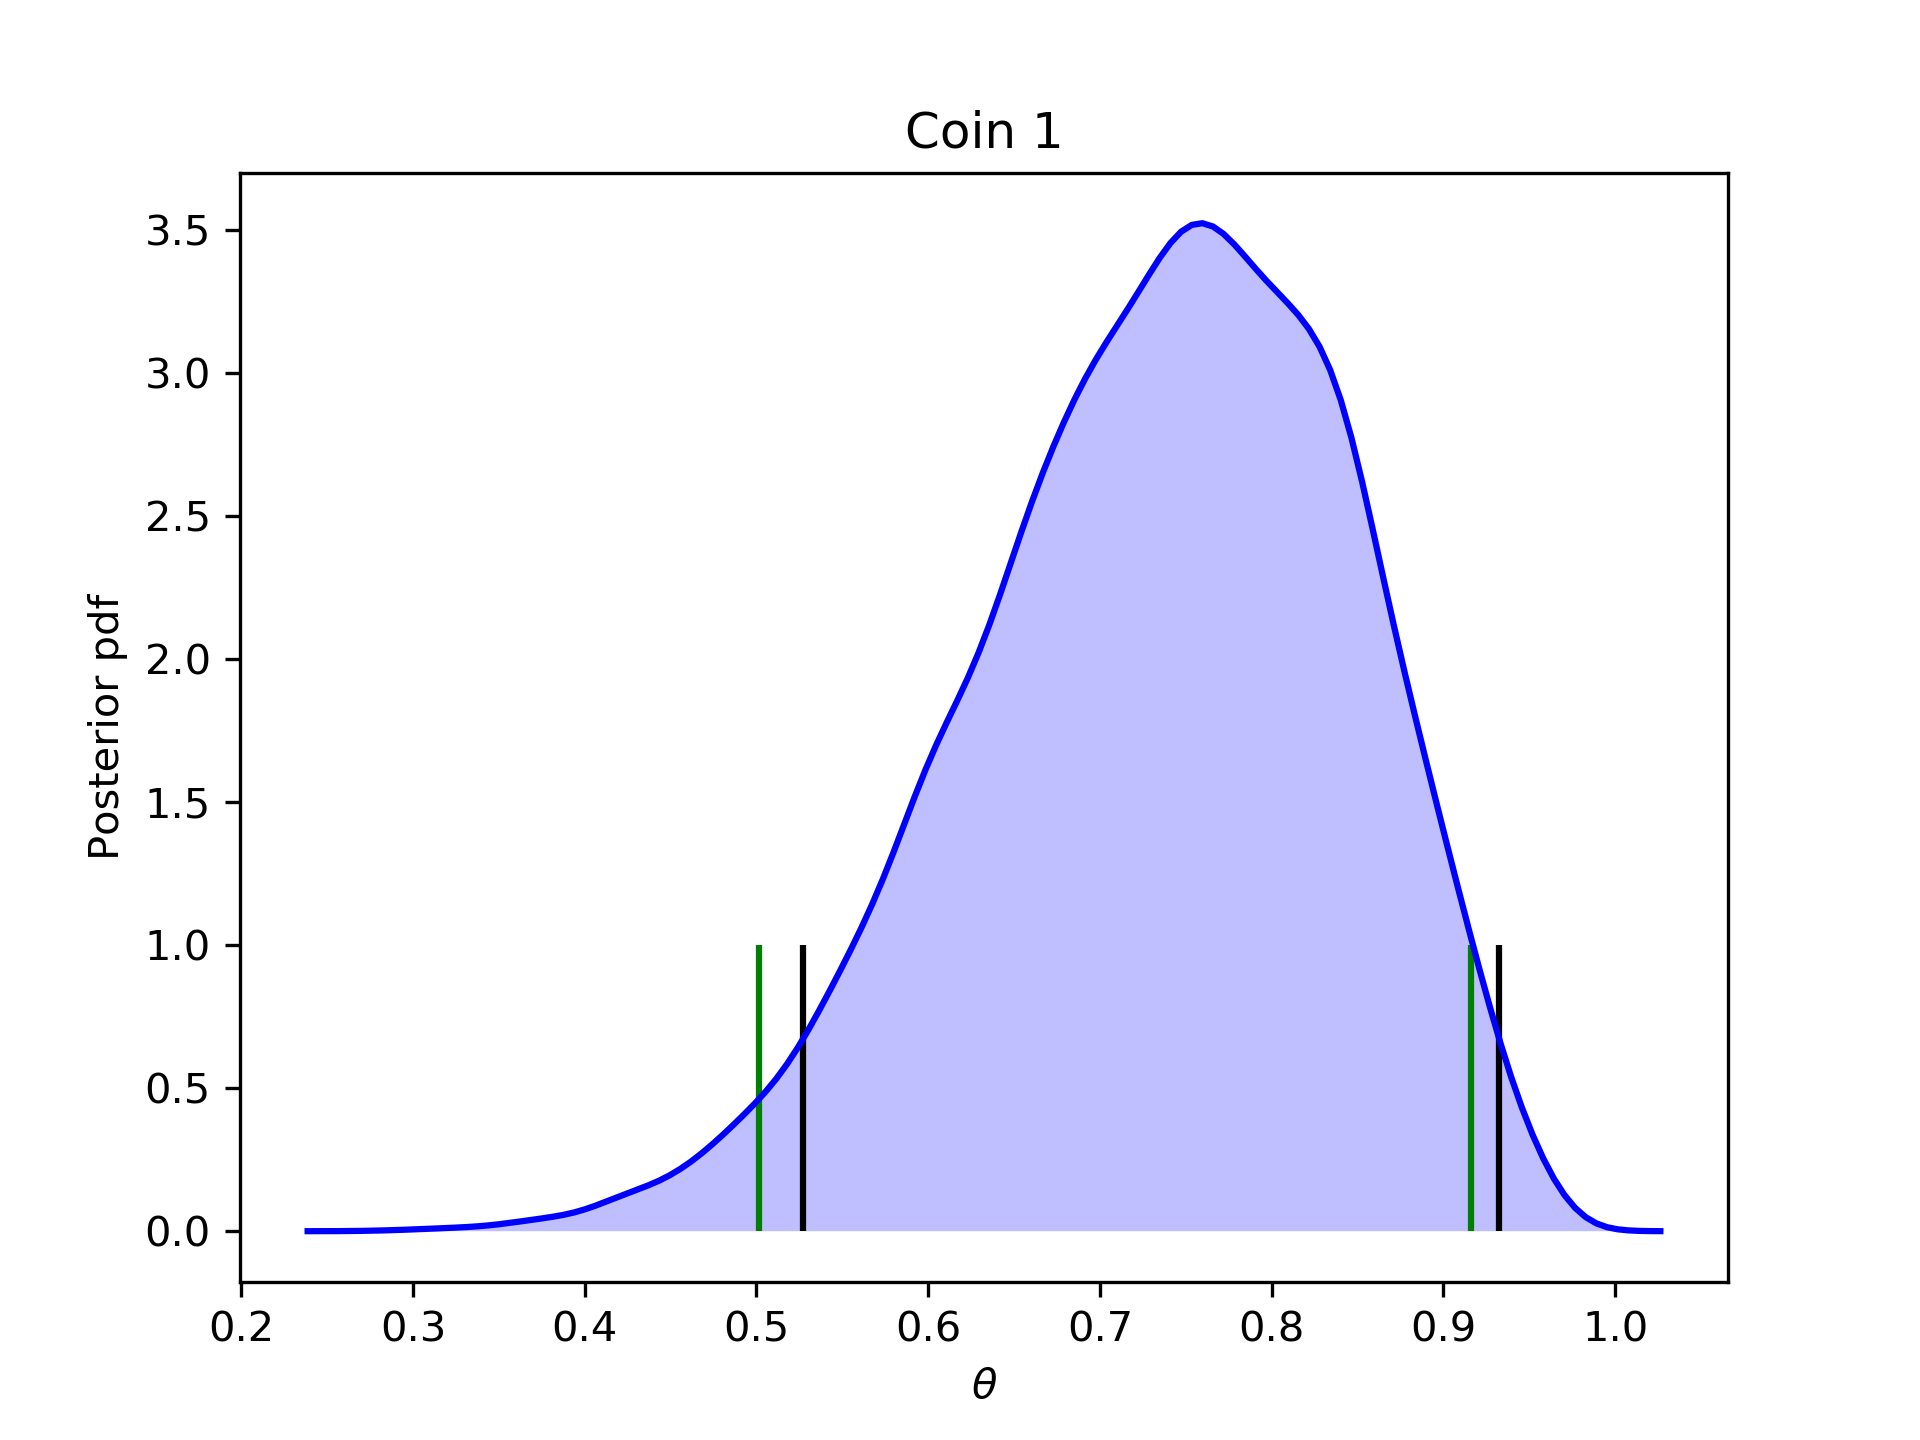
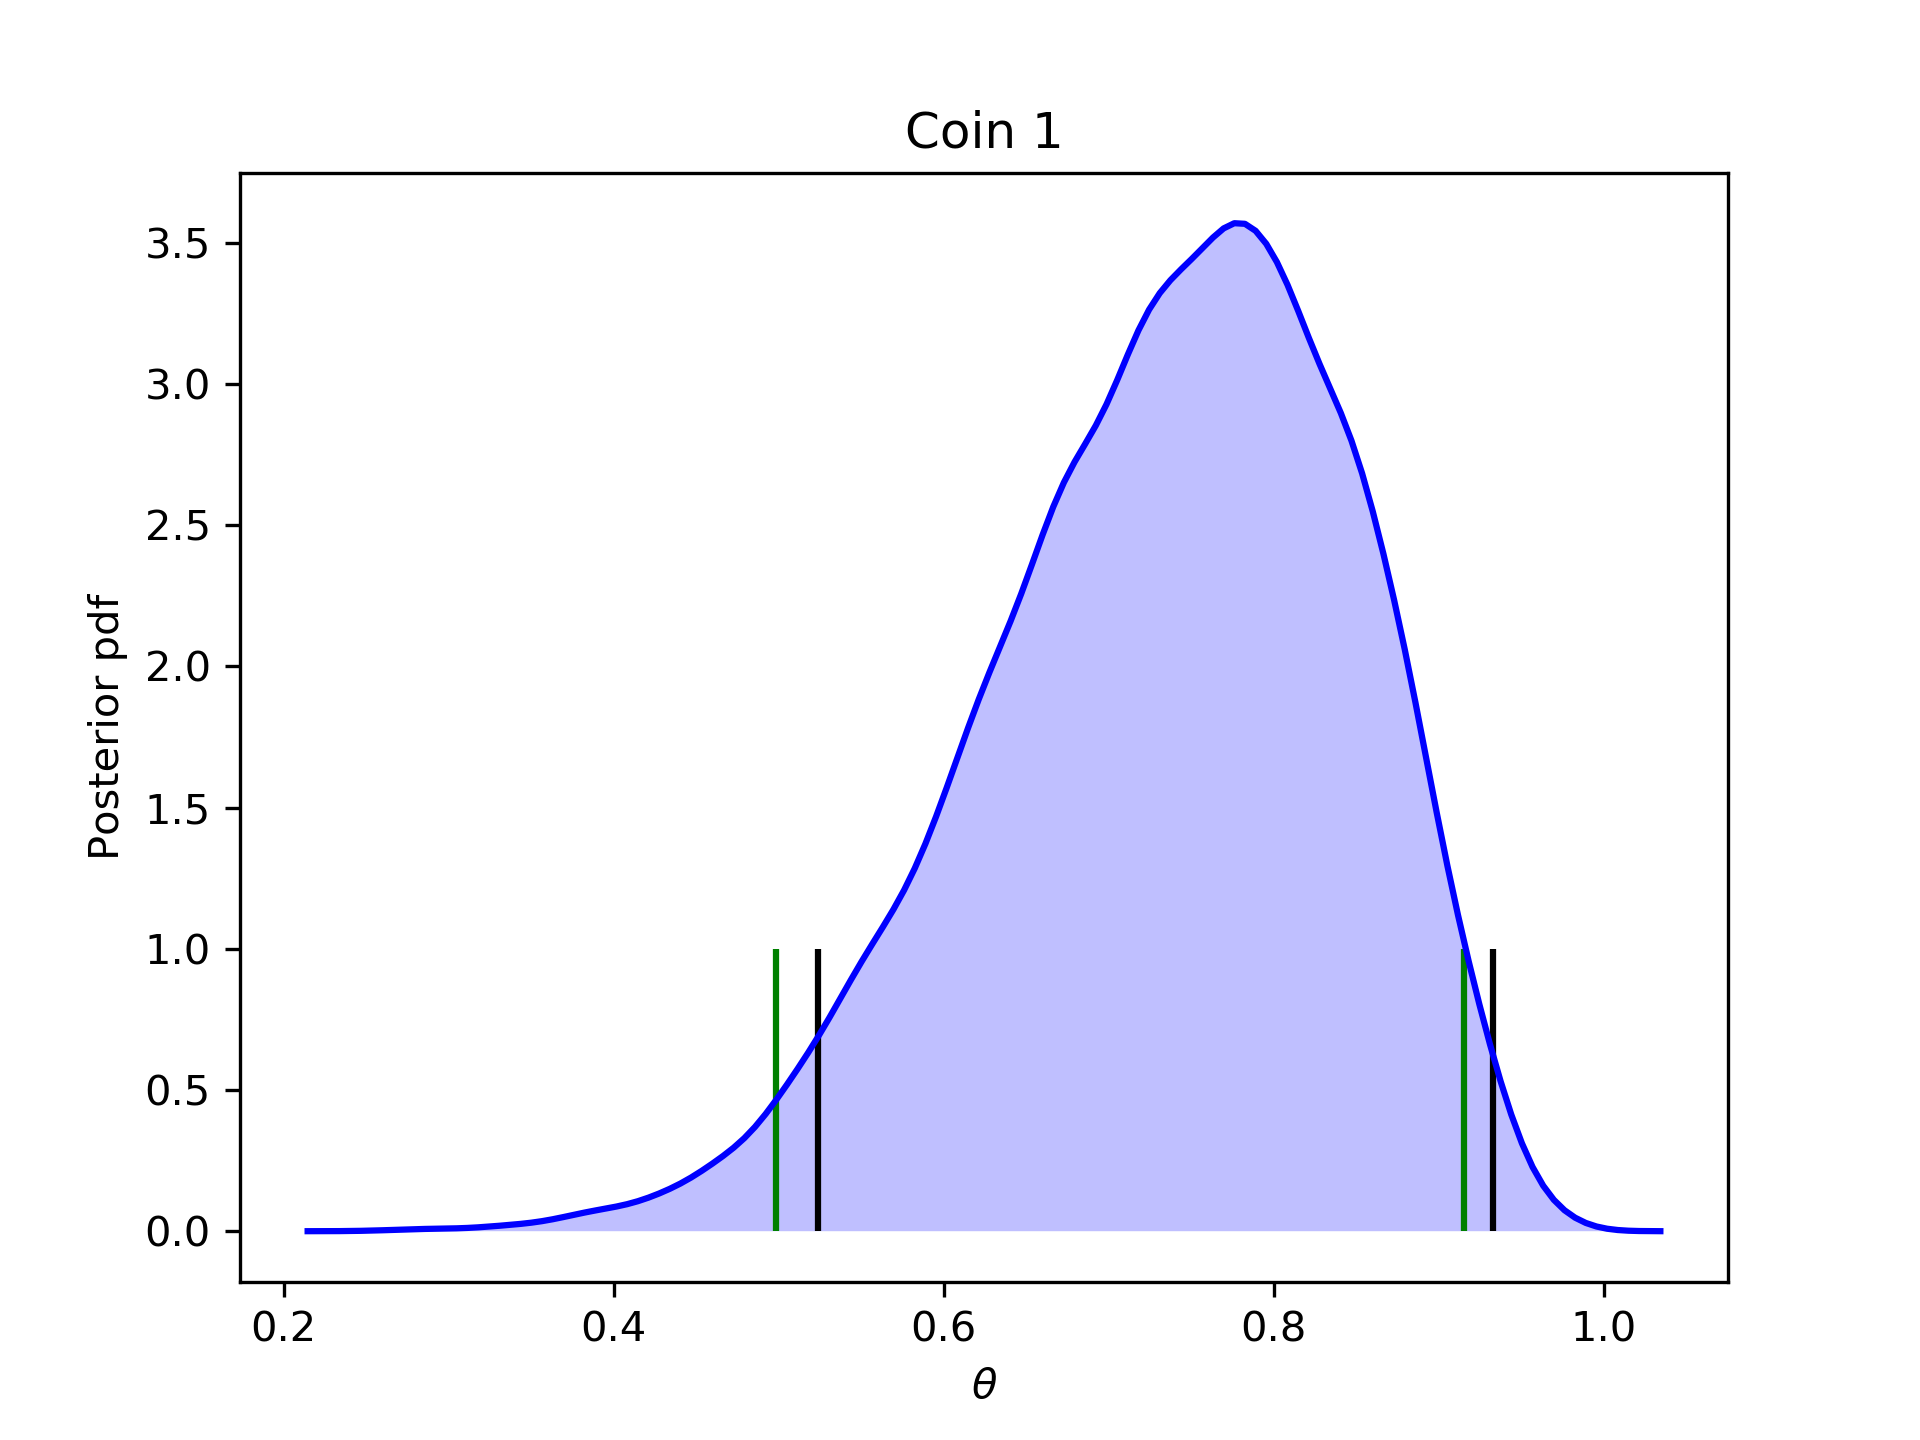
Minor update to structure

diff --git a/Assignment 4/joint_posterior.py b/Assignment 4/joint_posterior.py
@@ -1,0 +1,56 @@
+# -*- coding: utf-8 -*-
+"""
+Created on Tue Oct 29 14:14:37 2019
+
+@author: johohm
+"""
+import numpy as np
+import seaborn as sns
+import matplotlib.pyplot as plt
+import pystan
+from ABDA_funtions import calculate_hdi, calculate_ci
+
+
+
+
+y1 = np.array([1, 0, 1, 1, 0, 1, 1, 1, 0, 1, 1, 1, 1])  # coin flips
+y2 = np.array([1, 0, 0, 0, 0, 0, 0, 1, 1, 0])  # coin flips
+N = 50000       #Number of samples
+
+
+
+
+ass4_dat = {'J1': len(y1),
+            'J2':len(y2),
+            'y1': y1,
+            'y2': y2} #Format for stan
+
+model = """
+data {
+    int<lower=0> J1; // number of flips
+    int<lower=0> J2; // number of flips
+    int<lower=0,upper=1> y1[J1]; // coin flips
+    int<lower=0,upper=1> y2[J2]; // coin flips
+}
+parameters {
+    real<lower=0,upper=1> theta1; // prob of getting a head 
+    real<lower=0,upper=1> theta2; // prob of getting a head 
+}
+transformed parameters {
+// no transformed variables to use
+}
+model {
+    theta1 ~ beta(1, 1); // prior distribution for theta
+    y1 ~ bernoulli(theta1); // likelihood, note that stan will create the posterior automatically.
+    theta2 ~ beta(1, 1); // prior distribution for theta
+    y2 ~ bernoulli(theta2); // likelihood, note that stan will create the posterior automatically. 
+}
+"""
+
+sm = pystan.StanModel(model_code=model)
+
+# Train the model and generate samples for coin 1
+fit = sm.sampling(data=ass4_dat,iter=N, chains=1)
+la = fit.extract(permuted=True)  # return a dictionary of arrays
+
+sns.jointplot(la['theta1'],la['theta2'], kind="hex",xlim=(0,1),ylim=(0,1))

diff --git a/Assignment 4/A4_2.py b/Assignment 4/A4_2.py
@@ -7,7 +7,7 @@ from ABDA_funtions import calculate_hdi, calculate_ci
 
 
 y = np.array([1, 0, 1, 1, 0, 1, 1, 1, 0, 1, 1, 1, 1])  # coin flips
-N = 20000       #Number of samples
+N = 50000       #Number of samples
 ass4_dat = {'J': len(y),
             'y': y} #Format for stan
 
@@ -28,6 +28,9 @@ model {
     y ~ bernoulli(theta); // likelihood, note that stan will create the posterior automatically. 
 }
 """
+
+
+
 #Compile model
 sm = pystan.StanModel(model_code=model)
 
@@ -61,7 +64,7 @@ plt.savefig('Coin1',dpi=300)
 
 #Calculate and print probability for P(theta > 0.5)
 prob05 = np.sum(0.5 < result_coin1)/np.size(result_coin1)
-print('Coin 1: P(theta > 0.5) = %.2f' %prob05)
+print('Coin 1: P(theta > 0.5) = %.3f' %prob05)
 
 
 #Coin 2
@@ -78,7 +81,7 @@ result_coin2 = la['theta']
 
 #Calculate P(theta1 > theta2)
 prob = np.sum(result_coin2 < result_coin1)/np.size(result_coin1)
-print('P(theta1 > theta2) = %.2f' %prob )
+print('P(theta1 > theta2) = %.3f' %prob )
 
 
 

diff --git a/Assignment 4/A4_1.py b/Assignment 4/A4_1.py
@@ -4,15 +4,15 @@ import numpy as np
 import seaborn as sns
 import matplotlib.pyplot as plt
 import pystan
-
+from scipy.special import beta as beta_sp
 
 # Recreate fig 6.4
 # Functions pasted from last assignment
 def beta(a,b,theta):
     #Theta needs to be equally spaced
-    d_theta = theta[1] - theta[0]
-    B = np.sum(theta**(a-1)*(1-theta)**(b-1)*d_theta)
-    return theta**(a-1) * (1 - theta)**(b-1)/B
+    #d_theta = theta[1] - theta[0]
+    #B = np.sum(theta**(a-1)*(1-theta)**(b-1)*d_theta)
+    return np.log(theta)*(a-1) + np.log(1 - theta)*(b-1)-np.log(beta_sp(a,b))
 
 def log_likelihood(y,theta):
     # Theta needs to be a np.ndarry even if its single value

diff --git a/Assignment 4/readme.md b/Assignment 4/readme.md
@@ -10,3 +10,5 @@ For the second part, run:
 python A4_2.py
 ````
 Two figures is saved to the directory and the probabilities are printed.
+
+* The file joint_posterior.py is something I just tested. No need to look at it unless you are intressted.
